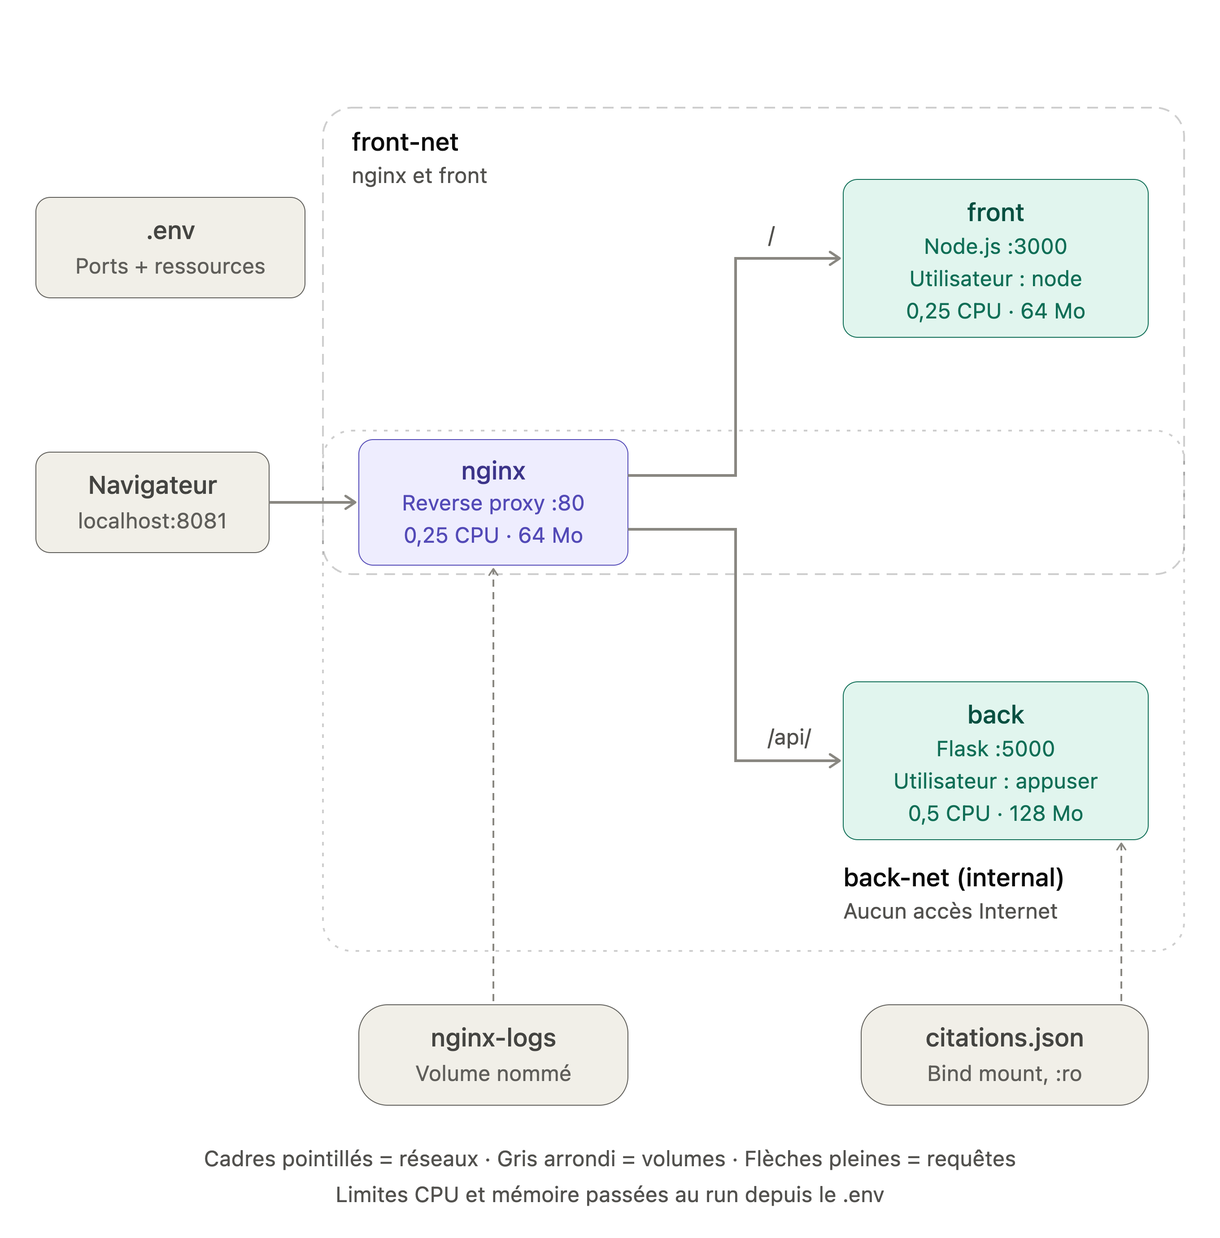
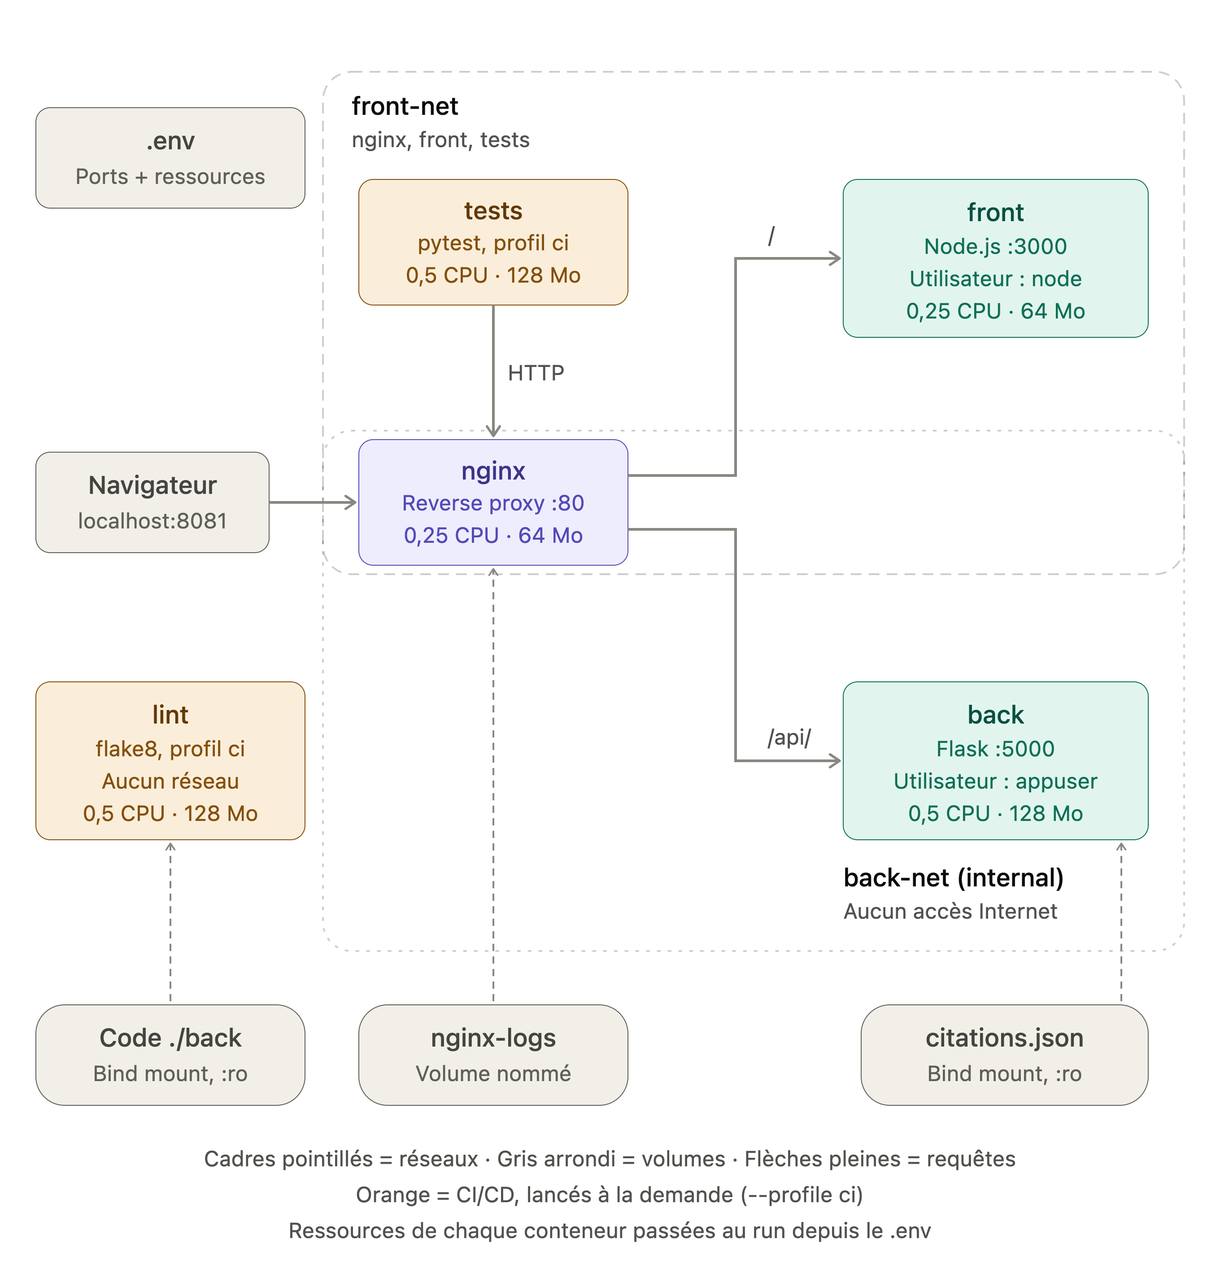
Projet final : conteneurs CI/CD (lint, tests), entrypoints, SIGTERM, documentation et schéma

diff --git a/projet-final/tests/test_app.py b/projet-final/tests/test_app.py
@@ -1,0 +1,29 @@
+import os
+
+import requests
+
+# Adresse de nginx dans le réseau Docker, passée au run
+BASE_URL = os.environ.get("BASE_URL", "http://nginx")
+
+
+def test_page_accueil():
+    # La page d'accueil (servie par le front via nginx) répond
+    r = requests.get(BASE_URL + "/", timeout=5)
+    assert r.status_code == 200
+    assert "Citation du jour" in r.text
+
+
+def test_api_renvoie_une_citation():
+    # L'API (servie par le back via nginx) renvoie une citation valide
+    r = requests.get(BASE_URL + "/api/quote", timeout=5)
+    assert r.status_code == 200
+    citation = r.json()
+    assert citation["texte"]
+    assert citation["auteur"]
+
+
+def test_healthcheck_front():
+    # La route de santé du front répond OK
+    r = requests.get(BASE_URL + "/health", timeout=5)
+    assert r.status_code == 200
+    assert r.text == "OK"

diff --git a/projet-final/README.md b/projet-final/README.md
@@ -6,7 +6,7 @@ Ce projet simule la mise en place d'un **mini-cloud basé sur Docker** : une inf
 
 Pour démontrer cette infrastructure, elle héberge une application simple : **Citation du jour**, un site en français qui affiche une citation tirée au hasard. Le sujet autorise un "Hello World" ; nous avons choisi une application à peine plus riche pour montrer de vrais échanges entre services (le front demande une citation au back, en passant par le serveur web).
 
-L'intérêt du projet n'est donc pas l'application elle-même, mais l'architecture qui l'héberge : images personnalisées, orchestration, isolation réseau, persistance des données et allocation des ressources.
+L'intérêt du projet n'est donc pas l'application elle-même, mais l'architecture qui l'héberge : images personnalisées, orchestration, isolation réseau, persistance des données, allocation des ressources et outils de CI/CD.
 
 ## Démarrage rapide
 
@@ -20,6 +20,13 @@ docker compose up -d --build
 
 Puis ouvrir **http://localhost:8081**.
 
+Lancer les conteneurs de CI/CD (à la demande) :
+
+```bash
+docker compose --profile ci run --rm lint
+docker compose --profile ci run --rm tests
+```
+
 Pour tout arrêter :
 
 ```bash
@@ -28,17 +35,47 @@ docker compose down
 
 ## Vue d'ensemble
 
-| Service | Rôle | Technologie | Accessible depuis la machine |
-|---|---|---|---|
-| nginx | Serveur web, point d'entrée unique (reverse proxy) | nginx (Alpine) | Oui, port 8081 |
-| front | Sert la page affichée à l'utilisateur | Node.js 20 (Alpine) | Non, uniquement via nginx |
-| back | API qui fournit les citations | Python 3.11 / Flask | Non, uniquement via nginx |
+| Service | Rôle | Technologie | Lancement | Accessible depuis la machine |
+|---|---|---|---|---|
+| nginx | Serveur web, point d'entrée unique (reverse proxy) | nginx (Alpine) | `docker compose up` | Oui, port 8081 |
+| front | Sert la page affichée à l'utilisateur | Node.js 20 (Alpine) | `docker compose up` | Non, uniquement via nginx |
+| back | API qui fournit les citations | Python 3.11 / Flask | `docker compose up` | Non, uniquement via nginx |
+| lint | CI/CD : analyse la qualité du code du back | Python 3.11 / flake8 | À la demande (`--profile ci`) | Non, aucun réseau |
+| tests | CI/CD : teste l'application de bout en bout | Python 3.11 / pytest | À la demande (`--profile ci`) | Non |
 
 ![Schéma de l'architecture](schema.png)
 
+## Pourquoi Docker plutôt qu'une virtualisation classique
+
+Une machine virtuelle (VMware, VirtualBox...) virtualise un ordinateur complet : chaque VM embarque son propre système d'exploitation. Un conteneur Docker, lui, partage le noyau de la machine hôte et n'embarque que l'application et ses dépendances.
+
+| Critère | Machine virtuelle | Conteneur Docker |
+|---|---|---|
+| Contenu | Un OS complet par VM | L'application et ses dépendances |
+| Taille | Plusieurs Go | Quelques dizaines à centaines de Mo (nos images : ~50 à 200 Mo) |
+| Démarrage | Plusieurs minutes | Moins d'une seconde |
+| Densité | Quelques VM par machine | Des dizaines de conteneurs par machine |
+| Reproductibilité | Configuration souvent manuelle | Décrite dans un Dockerfile, identique partout |
+| Ressources | Allouées par VM, souvent surdimensionnées | Limites fines par conteneur (ici : 0,25 CPU, 64 Mo) |
+
+Dans ce projet, cinq services tournent sur une seule machine, démarrent en quelques secondes et consomment ensemble moins de 100 Mo de mémoire au repos. Avec des VM, il en aurait fallu plusieurs, avec chacune son système à installer et à maintenir.
+
+Nuance : sur macOS et Windows, Docker Desktop fait tourner les conteneurs dans une petite VM Linux unique, partagée par tous les conteneurs. Sur un serveur Linux, il n'y a aucune VM.
+
+## Images de base et personnalisation
+
+Aucune image n'est utilisée telle quelle. Chaque image part d'une **image de base officielle** (`python:3.11-slim`, `node:20-alpine`, `nginx:alpine`) qui ne fournit que le système et l'environnement d'exécution, et nous la personnalisons : notre code, nos dépendances, nos utilisateurs, notre configuration et nos réglages. Toutes les personnalisations sont détaillées dans les sections suivantes.
+
+Une fois construites, nos images n'ont plus besoin de Docker Hub : elles peuvent être exportées en fichier et rechargées sur une autre machine, sans aucun registre.
+
+```bash
+docker save citation-du-jour-back -o back.tar
+docker load -i back.tar
+```
+
 ## Images : choix au build
 
-Les trois images sont construites à partir de nos propres Dockerfiles (`build:` dans le compose). Aucune image n'est utilisée telle quelle : chacune part d'une image de base officielle, que nous personnalisons avec notre code, notre configuration et nos réglages.
+Les cinq images sont construites à partir de nos propres Dockerfiles (`build:` dans le compose).
 
 ### Image back (`back/Dockerfile`)
 
@@ -53,9 +90,6 @@ Les trois images sont construites à partir de nos propres Dockerfiles (`build:`
 | Utilisateur | `USER appuser` | Sécurité : l'API ne tourne pas en root. Placé après `pip install`, qui a besoin des droits root pour installer Flask. |
 | Variable | `ENV PORT=5000` | Port par défaut lu par `app.py`, surchargé au run par le compose. |
 | Port | `EXPOSE 5000` | Documente le port d'écoute. N'ouvre rien sur la machine. |
-| Démarrage | `CMD ["python", "app.py"]` | Forme exec : Python est le processus principal (PID 1) et reçoit directement le signal d'arrêt. |
-
-**Personnalisation du code :** `app.py` intercepte le signal `SIGTERM` envoyé par `docker stop` et quitte avec le code 0. Sans cela, Python ignorait le signal et Docker forçait l'arrêt après 10 secondes (code 137).
 
 ### Image front (`front/Dockerfile`)
 
@@ -63,7 +97,7 @@ Les trois images sont construites à partir de nos propres Dockerfiles (`build:`
 |---|---|---|
 | Image de base | `node:20-alpine` | Node.js préinstallé sur Alpine Linux : la variante la plus légère (~190 Mo contre ~1 Go pour l'image complète) et la plus petite surface d'attaque. Le front n'utilise aucun module natif, donc la libc d'Alpine (musl) ne pose pas de problème. |
 | Opération sur l'OS | `RUN chown -R node:node /app` | Donne le dossier de l'application à l'utilisateur `node` (fourni par l'image). Fait avant `USER`, car seul root peut changer un propriétaire. |
-| Utilisateur | `USER node` | Sécurité : l'application ne tourne pas en root. En cas de faille, l'attaquant n'aurait pas les droits d'administration du conteneur. |
+| Utilisateur | `USER node` | Sécurité : l'application ne tourne pas en root. |
 | Dépendances | `package.json` et `package-lock.json` copiés avant le code | Même logique de cache que pour le back. |
 | Installation | `npm ci` | Installe exactement les versions du `package-lock.json` : builds reproductibles. Aucune dépendance externe pour l'instant (serveur basé sur le module `http` intégré à Node). |
 | Copie | `COPY --chown=node:node` | Sans `--chown`, les fichiers copiés appartiendraient à root malgré `USER node`. |
@@ -71,23 +105,72 @@ Les trois images sont construites à partir de nos propres Dockerfiles (`build:`
 | Variables | `NODE_ENV=production`, `PORT=3000` | Mode production pour Node, port par défaut surchargé au run. |
 | Port | `EXPOSE 3000` | Documente le port d'écoute. |
 | Santé | `HEALTHCHECK` toutes les 30 s sur `/health` | Docker vérifie que l'application répond ; le conteneur passe `unhealthy` après 3 échecs. Le port est lu dans `PORT`, il suit donc la configuration. |
-| Démarrage | `CMD ["node", "server.js"]` | Forme exec, pour la même raison que le back. |
-
-**Personnalisation du code :** `server.js` sert la page `index.html`, expose `/health` pour le healthcheck, et s'arrête proprement sur `SIGTERM`.
 
 ### Image serveur web (`nginx/Dockerfile`)
 
 | Élément | Choix | Justification |
 |---|---|---|
-| Image de base | `nginx:alpine` | Serveur web léger et performant, très utilisé en production. Pas de `CMD` à écrire : l'image démarre déjà nginx. |
+| Image de base | `nginx:alpine` | Serveur web léger et performant, très utilisé en production. |
 | Configuration | `default.conf.template` copié dans `/etc/nginx/templates/` | Au démarrage, nginx remplace `${FRONT_PORT}` et `${BACK_PORT}` par leurs valeurs et génère sa configuration. Les ports ne sont donc écrits qu'à un seul endroit : le `.env`. |
 | Routage | `/` vers le front, `/api/` vers le back | nginx est le seul point d'entrée. Le `/` final de `proxy_pass` retire le préfixe `/api` avant de transmettre au back. |
 | Logs | `citation-access.log` et `citation-error.log` | L'image officielle redirige ses logs par défaut vers la console. Nous écrivons dans de vrais fichiers pour les conserver dans un volume. |
 | Port | `EXPOSE 80` | Port d'écoute de nginx dans le conteneur. |
 
+### Image lint (`lint/Dockerfile`)
+
+| Élément | Choix | Justification |
+|---|---|---|
+| Image de base | `python:3.11-slim` | Même version de Python que le back : le code est analysé avec la version qui l'exécute. |
+| Dépendance | flake8 (`requirements.txt`) | Outil de référence pour vérifier le style (PEP 8) et les erreurs probables du code Python. |
+| Installation | `pip install --no-cache-dir` | Image plus légère. |
+| Opération sur l'OS | `RUN useradd --system --no-create-home linter` | Le linter ne fait que lire le code : il n'a besoin d'aucun droit. |
+| Dossier de travail | `WORKDIR /code` | Le code du back y est monté au run, en lecture seule. |
+
+### Image tests (`tests/Dockerfile`)
+
+| Élément | Choix | Justification |
+|---|---|---|
+| Image de base | `python:3.11-slim` | Même base que le back et le lint : une seule base Python à maintenir. |
+| Dépendances | pytest, requests (`requirements.txt`) | pytest lance les tests et produit un rapport ; requests envoie les requêtes HTTP vers l'application. |
+| Installation | `pip install --no-cache-dir` | Image plus légère. |
+| Opération sur l'OS | `RUN useradd --system --no-create-home tester` | Les tests n'ont besoin d'aucun droit d'administration. |
+| Fichiers copiés | `test_app.py` | Trois tests : page d'accueil, API, route de santé du front. |
+| Variable | `ENV BASE_URL=http://nginx` | Adresse de l'application testée, remplaçable au run. |
+
+## Entrypoints choisis
+
+| Image | Entrypoint / commande | Forme | Justification |
+|---|---|---|---|
+| back | `CMD ["python", "app.py"]` | exec | Python est le processus principal (PID 1) et reçoit directement les signaux d'arrêt. `CMD` plutôt qu'`ENTRYPOINT` : on peut remplacer la commande pour diagnostiquer (`docker compose run back sh`). |
+| front | `CMD ["node", "server.js"]` | exec | Même raison : Node est PID 1. Avec la forme shell (`CMD node server.js`), un shell serait PID 1 et ne transmettrait pas le signal à Node. |
+| nginx | Entrypoint de l'image officielle (`/docker-entrypoint.sh`), conservé volontairement | exec | Ce script exécute les scripts de `/docker-entrypoint.d/`, dont celui qui transforme nos templates en configuration (remplacement de `${FRONT_PORT}` et `${BACK_PORT}`), puis lance nginx au premier plan. C'est ce mécanisme qui permet de passer les ports en arguments au run. |
+| lint | `ENTRYPOINT ["flake8"]` + `CMD ["--max-line-length=100", "."]` | exec | Conteneur à mission unique : `ENTRYPOINT` fixe l'outil, `CMD` fournit les options par défaut, remplaçables au lancement sans rebuild. |
+| tests | `ENTRYPOINT ["pytest"]` + `CMD ["-v", "-p", "no:cacheprovider"]` | exec | Même logique. `-v` détaille chaque test ; `-p no:cacheprovider` désactive le cache de pytest, inutile dans un conteneur jetable et impossible à écrire sans droits root. |
+
+Exemple de remplacement des options sans rebuild :
+
+```bash
+docker compose --profile ci run --rm lint --max-line-length=79 .
+```
+
+## Gestion des signaux d'arrêt (SIGTERM)
+
+À l'arrêt (`docker stop`, `docker compose down`), Docker envoie `SIGTERM` au processus principal, attend 10 secondes, puis force l'arrêt avec `SIGKILL` (code de sortie 137).
+
+Avant correction, Python et Node, lancés comme PID 1, ignoraient `SIGTERM` : chaque arrêt prenait 10 secondes et se terminait par un code 137. Nous avons donc ajouté une gestion explicite :
+
+| Service | Gestion | Résultat |
+|---|---|---|
+| back | `signal.signal(signal.SIGTERM, ...)` dans `app.py` : quitte avec `sys.exit(0)` | Code de sortie 0, arrêt immédiat |
+| front | `process.on("SIGTERM", ...)` dans `server.js` : ferme le serveur puis quitte avec le code 0 | Code de sortie 0, arrêt immédiat |
+| nginx | Gestion native par nginx | Code de sortie 0 |
+| lint, tests | Conteneurs éphémères : ils terminent leur tâche et s'arrêtent seuls | Code 0 si succès, 1 si échec |
+
+Les formes exec des `CMD` sont indispensables : elles garantissent que le signal arrive bien à l'application et non à un shell intermédiaire.
+
 ## Arguments du run (docker-compose.yml et .env)
 
-Tous les réglages du run sont centralisés dans le fichier `.env`, lu automatiquement par Docker Compose. Pour modifier un port ou les ressources d'un service, on change une ligne du `.env` puis on relance `docker compose up -d` : aucun rebuild n'est nécessaire.
+Tous les réglages du run sont centralisés dans le fichier `.env`, lu automatiquement par Docker Compose. Pour modifier un port ou les ressources d'un service, on change une ligne du `.env` puis on relance `docker compose up -d` : aucun rebuild n'est nécessaire. Test réalisé : passer `BACK_MEMORY` de `128M` à `256M` ne recrée que le conteneur du back, dont la limite passe à 256 Mo.
 
 Le fichier `.env` n'est pas versionné (il est dans le `.gitignore`, car dans un vrai projet il contiendrait des secrets). Le fichier `.env.example`, versionné, sert de modèle.
 
@@ -102,8 +185,10 @@ Le fichier `.env` n'est pas versionné (il est dans le `.gitignore`, car dans un
 | `BACK_CPUS` / `BACK_MEMORY` | `0.5` / `128M` | Ressources du back |
 | `FRONT_CPUS` / `FRONT_MEMORY` | `0.25` / `64M` | Ressources du front |
 | `NGINX_CPUS` / `NGINX_MEMORY` | `0.25` / `64M` | Ressources de nginx |
+| `LINT_CPUS` / `LINT_MEMORY` | `0.5` / `128M` | Ressources du lint |
+| `TESTS_CPUS` / `TESTS_MEMORY` | `0.5` / `128M` | Ressources des tests |
 
-### Arguments par service
+### Arguments par service : application
 
 | Argument | back | front | nginx |
 |---|---|---|---|
@@ -115,31 +200,117 @@ Le fichier `.env` n'est pas versionné (il est dans le `.gitignore`, car dans un
 | `deploy.resources.limits` | `${BACK_CPUS}`, `${BACK_MEMORY}` | `${FRONT_CPUS}`, `${FRONT_MEMORY}` | `${NGINX_CPUS}`, `${NGINX_MEMORY}` |
 | `depends_on` | aucun | aucun | `front`, `back` |
 
-**`environment`** transmet des variables **à l'intérieur** du conteneur. Elles remplacent les valeurs par défaut des `ENV` des Dockerfiles. nginx reçoit les ports du front et du back pour générer sa configuration.
+### Arguments par service : CI/CD
 
-**`ports`** : seul nginx publie un port sur la machine. Le front et le back ne sont joignables qu'à travers lui : moins de portes ouvertes, et un point d'entrée unique.
+| Argument | lint | tests |
+|---|---|---|
+| `build` | `./lint` | `./tests` |
+| `profiles` | `ci` | `ci` |
+| `environment` | aucun | `BASE_URL=http://nginx:80` |
+| `networks` | aucun (`network_mode: none`) | `front-net` |
+| `volumes` | `./back:/code:ro` | aucun |
+| `deploy.resources.limits` | `${LINT_CPUS}`, `${LINT_MEMORY}` | `${TESTS_CPUS}`, `${TESTS_MEMORY}` |
+| `depends_on` | aucun | `nginx` |
 
-**`depends_on`** démarre le front et le back avant nginx, qui redirige vers eux.
+**`environment`** transmet des variables **à l'intérieur** du conteneur. Elles remplacent les valeurs par défaut des `ENV` des Dockerfiles.
 
-### Réseaux
+**`ports`** : seul nginx publie un port sur la machine. Le front et le back ne sont joignables qu'à travers lui.
+
+**`profiles: ["ci"]`** : le lint et les tests ne démarrent pas avec `docker compose up`, uniquement quand on les demande, comme dans un pipeline CI.
+
+### Équivalent avec `docker run`
+
+Chaque argument du compose correspond à une option de `docker run`. Exemple pour le back :
+
+```bash
+docker build -t citation-back ./back
+docker network create --internal back-net
+docker run -d --name back \
+  --network back-net \
+  -e PORT=5000 \
+  -v "$(pwd)/back/citations.json:/app/citations.json:ro" \
+  --cpus 0.5 --memory 128m \
+  citation-back
+```
+
+| `docker run` | `docker-compose.yml` |
+|---|---|
+| `-e PORT=5000` | `environment` |
+| `-p 8081:80` | `ports` |
+| `--network back-net` | `networks` |
+| `-v ...:ro` | `volumes` |
+| `--cpus 0.5` | `deploy.resources.limits.cpus` |
+| `--memory 128m` | `deploy.resources.limits.memory` |
+
+Le compose évite de retaper ces commandes pour chaque conteneur et garantit qu'elles sont toujours les mêmes.
+
+## Ordre de démarrage (dépendances)
+
+| Service | Dépend de | Raison |
+|---|---|---|
+| nginx | front, back | nginx redirige vers eux : ils doivent exister quand il démarre. |
+| tests | nginx | Les tests interrogent l'application via nginx. Lancer les tests démarre automatiquement nginx, donc aussi le front et le back. |
+
+Ordre obtenu : back et front, puis nginx, puis les tests.
+
+`depends_on` garantit l'ordre de **démarrage** des conteneurs, mais pas que l'application soit déjà **prête** à répondre. Pour ce projet, les services démarrent en moins d'une seconde, ce qui suffit en pratique (voir les pistes d'amélioration).
+
+## Réseaux
 
 | Réseau | Membres | Particularité |
 |---|---|---|
-| `front-net` | nginx, front | Réseau standard |
+| `front-net` | nginx, front, tests | Réseau standard |
 | `back-net` | nginx, back | `internal: true` : aucun accès à Internet |
+| aucun | lint | `network_mode: none` : totalement isolé |
 
-nginx est le seul conteneur présent dans les deux réseaux : c'est l'unique pont entre le front et le back. Vérifications effectuées :
+nginx est le seul conteneur présent dans les deux réseaux : c'est l'unique pont entre le front et le back. Les tests sont dans `front-net` : ils passent par nginx, comme un utilisateur, et ne peuvent pas joindre le back directement. Vérifications effectuées :
 
 - nginx joint le back : `docker compose exec nginx wget -qO- http://back:5000/quote` renvoie une citation.
 - Le front ne peut pas joindre le back : la même commande depuis le front renvoie `bad address 'back:5000'`.
 - Le back n'a pas accès à Internet : une requête vers google.com échoue (`Temporary failure in name resolution`).
 
-### Volumes
+## Volumes
 
 | Volume | Type | Rôle |
 |---|---|---|
-| `./back/citations.json` | Bind mount (fichier de la machine), lecture seule `:ro` | Les citations se modifient sans rebuild ni redémarrage. Le conteneur peut les lire mais pas les modifier. |
-| `nginx-logs` | Volume nommé (géré par Docker) | Les logs de nginx survivent à la suppression du conteneur (`docker compose down`). Seul `docker compose down -v` les supprime. |
+| `./back/citations.json` → back | Bind mount (fichier de la machine), lecture seule `:ro` | Les citations se modifient sans rebuild ni redémarrage. Le conteneur peut les lire mais pas les modifier. |
+| `nginx-logs` → nginx | Volume nommé (géré par Docker) | Les logs de nginx survivent à la suppression du conteneur (`docker compose down`). Seul `docker compose down -v` les supprime. |
+| `./back` → lint | Bind mount, lecture seule `:ro` | Le linter analyse le code du back sans pouvoir le modifier. |
+
+## CI/CD : lint et tests
+
+Les deux conteneurs CI/CD reproduisent les étapes d'un pipeline d'intégration continue : avant de déployer, on vérifie la qualité du code (lint), puis le bon fonctionnement de l'application (tests). Chacun renvoie un **code de sortie** : `0` si tout est bon, `1` sinon. C'est ce code qu'un outil de CI (GitHub Actions, GitLab CI...) utilise pour autoriser ou bloquer une mise en production.
+
+### Lint
+
+```bash
+docker compose --profile ci run --rm lint
+echo "Code de sortie : $?"
+```
+
+Résultat lors de sa première exécution :
+
+```
+./app.py:29:39: W292 no newline at end of file
+Code de sortie : 1
+```
+
+flake8 a détecté un fichier sans retour à la ligne final (convention PEP 8). Après correction : aucune remarque, code de sortie `0`.
+
+### Tests
+
+```bash
+docker compose --profile ci run --rm tests
+echo "Code de sortie : $?"
+```
+
+| Test | Vérifie |
+|---|---|
+| `test_page_accueil` | La page d'accueil répond (code 200) et contient « Citation du jour » |
+| `test_api_renvoie_une_citation` | L'API renvoie une citation avec un texte et un auteur |
+| `test_healthcheck_front` | La route de santé du front répond `OK` |
+
+Résultat : `3 passed`, code de sortie `0`.
 
 ## Allocation des ressources et benchmarks
 
@@ -175,6 +346,8 @@ Environ deux fois le pic de mémoire mesuré, pour garder une marge :
 | back | 0,5 | 128 Mo | Service le plus sollicité : chaque requête API est traitée par Python. |
 | front | 0,25 | 64 Mo | Sert une seule page statique, très peu sollicité. |
 | nginx | 0,25 | 64 Mo | Ne fait que transmettre les requêtes, très léger. |
+| lint | 0,5 | 128 Mo | Tâche courte (quelques secondes) ; Python et flake8 chargés en mémoire. |
+| tests | 0,5 | 128 Mo | Tâche courte ; Python, pytest et requests chargés en mémoire. |
 
 ### Résultats
 
@@ -205,10 +378,13 @@ Après `docker compose up -d --build`, depuis le dossier `projet-final` :
 | Isolation réseau | `docker compose exec front wget -qO- http://back:5000/quote` | `bad address 'back:5000'` |
 | Back sans Internet | `docker compose exec back python -c "import urllib.request; urllib.request.urlopen('https://www.google.com', timeout=3)"` | Erreur de résolution de nom |
 | Logs persistants | `docker compose exec nginx tail -n 3 /var/log/nginx/citation-access.log` | Les dernières visites, conservées après `down` puis `up` |
+| Lint | `docker compose --profile ci run --rm lint` | Aucune remarque, code de sortie 0 |
+| Tests | `docker compose --profile ci run --rm tests` | `3 passed`, code de sortie 0 |
 | Arrêt propre | `docker compose down` | Arrêt en moins d'une seconde, sans attente de 10 s |
 
 ## Limites et pistes d'amélioration
 
 - **Serveur de développement Flask** : suffisant pour ce projet, mais en production on utiliserait un serveur WSGI comme Gunicorn, capable de traiter plusieurs requêtes en parallèle.
-- **Healthcheck** : seul le front en possède un. En ajouter au back et à nginx permettrait d'utiliser `depends_on` avec `condition: service_healthy`, pour que nginx ne démarre qu'une fois les autres services réellement prêts.
-- **Passage à l'échelle** : avec Docker Swarm, on pourrait lancer plusieurs répliques du back derrière nginx et les répartir sur plusieurs machines.
+- **Disponibilité réelle des services** : ajouter un healthcheck au back et à nginx permettrait d'utiliser `depends_on` avec `condition: service_healthy`, pour qu'un service ne démarre qu'une fois ses dépendances réellement prêtes.
+- **Passage à l'échelle** : avec Docker Swarm, on pourrait lancer plusieurs répliques du back derrière nginx, les répartir sur plusieurs machines et ajuster leur nombre selon la charge.
+- **Pipeline automatisé** : les conteneurs de lint et de tests pourraient être lancés automatiquement à chaque push, par exemple avec GitHub Actions.
